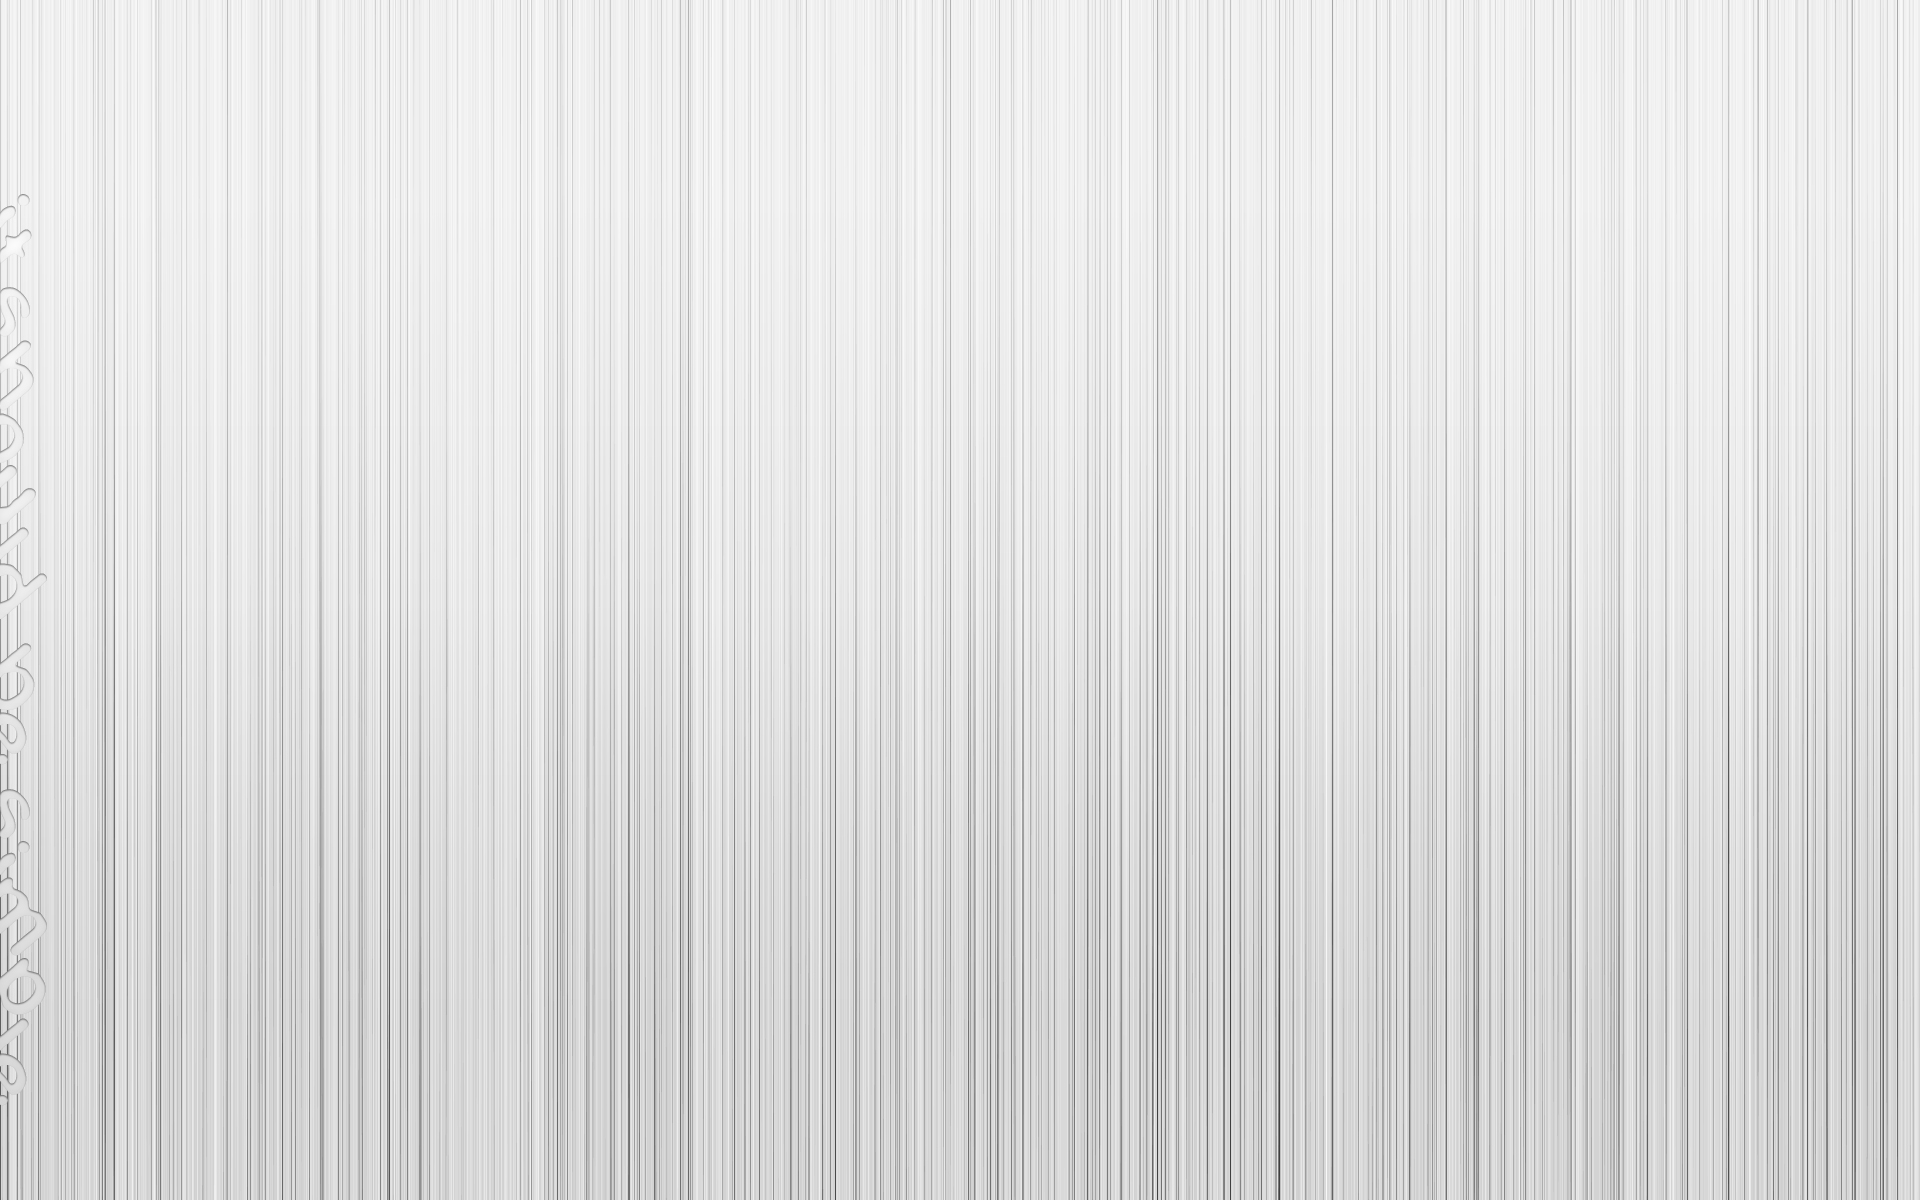
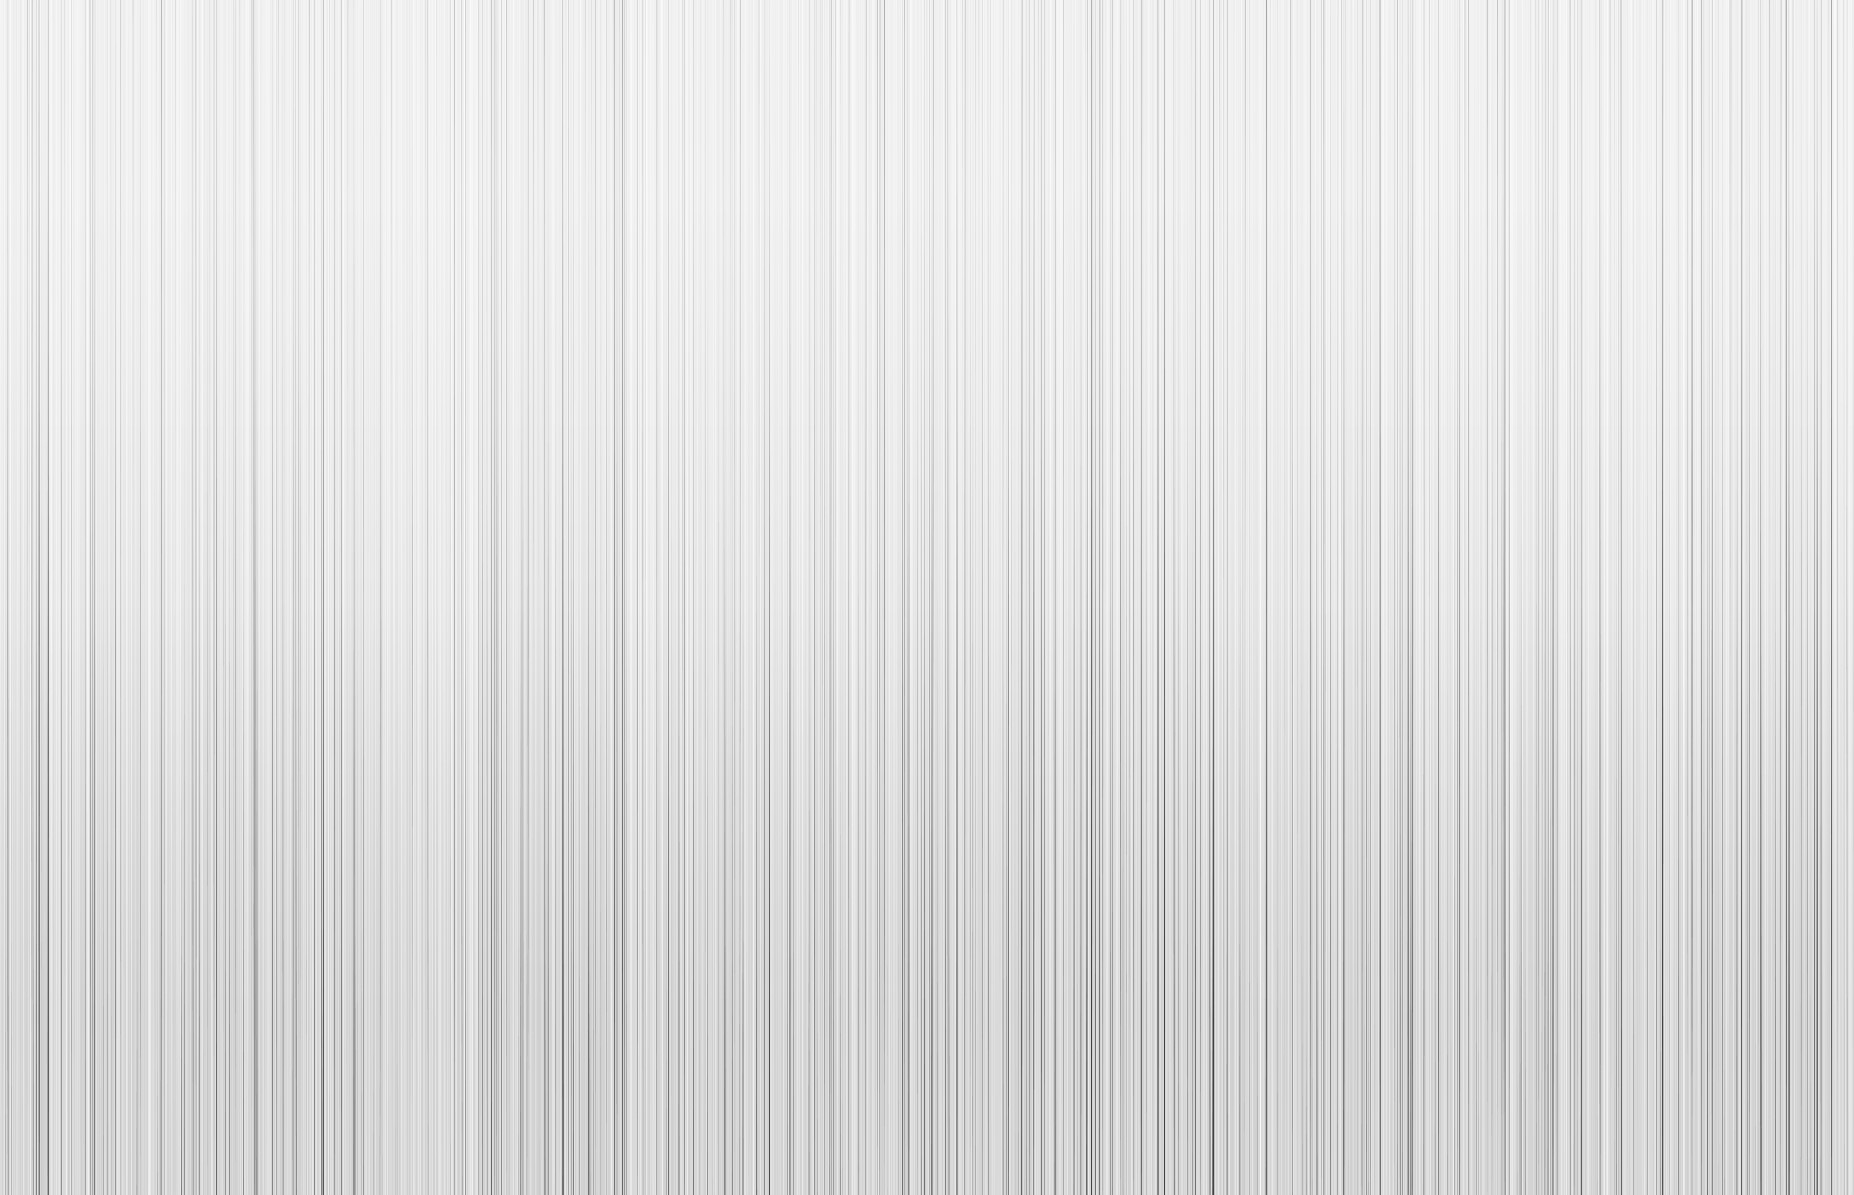
fix watermark

Changed region(s): [[0.0, 0.0, 0.9838, 1.0], [0.9531, 0.0, 0.9838, 0.0619], [0.4612, 0.0, 0.4919, 0.031]]

diff --git a/assets/css/style.css b/assets/css/style.css
@@ -10,5 +10,5 @@ background-color: #252324;
     
 }
 body{
-    background-color: blac;
+    background-image: url("../images/whiteback.jpg");
 }
